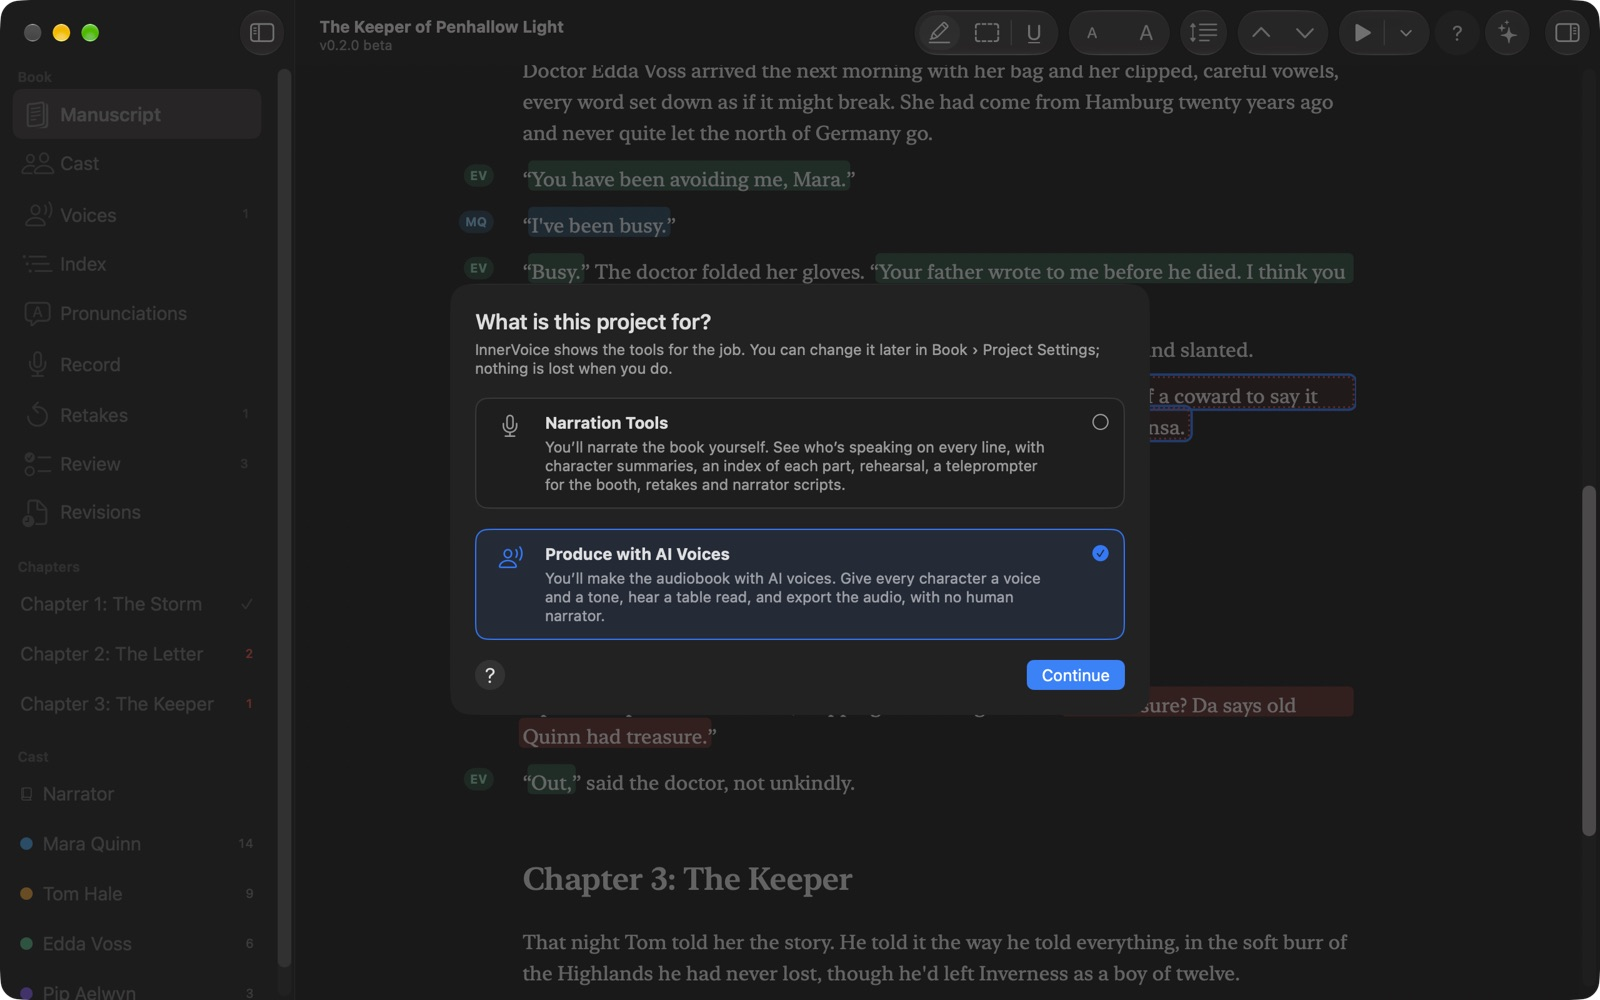
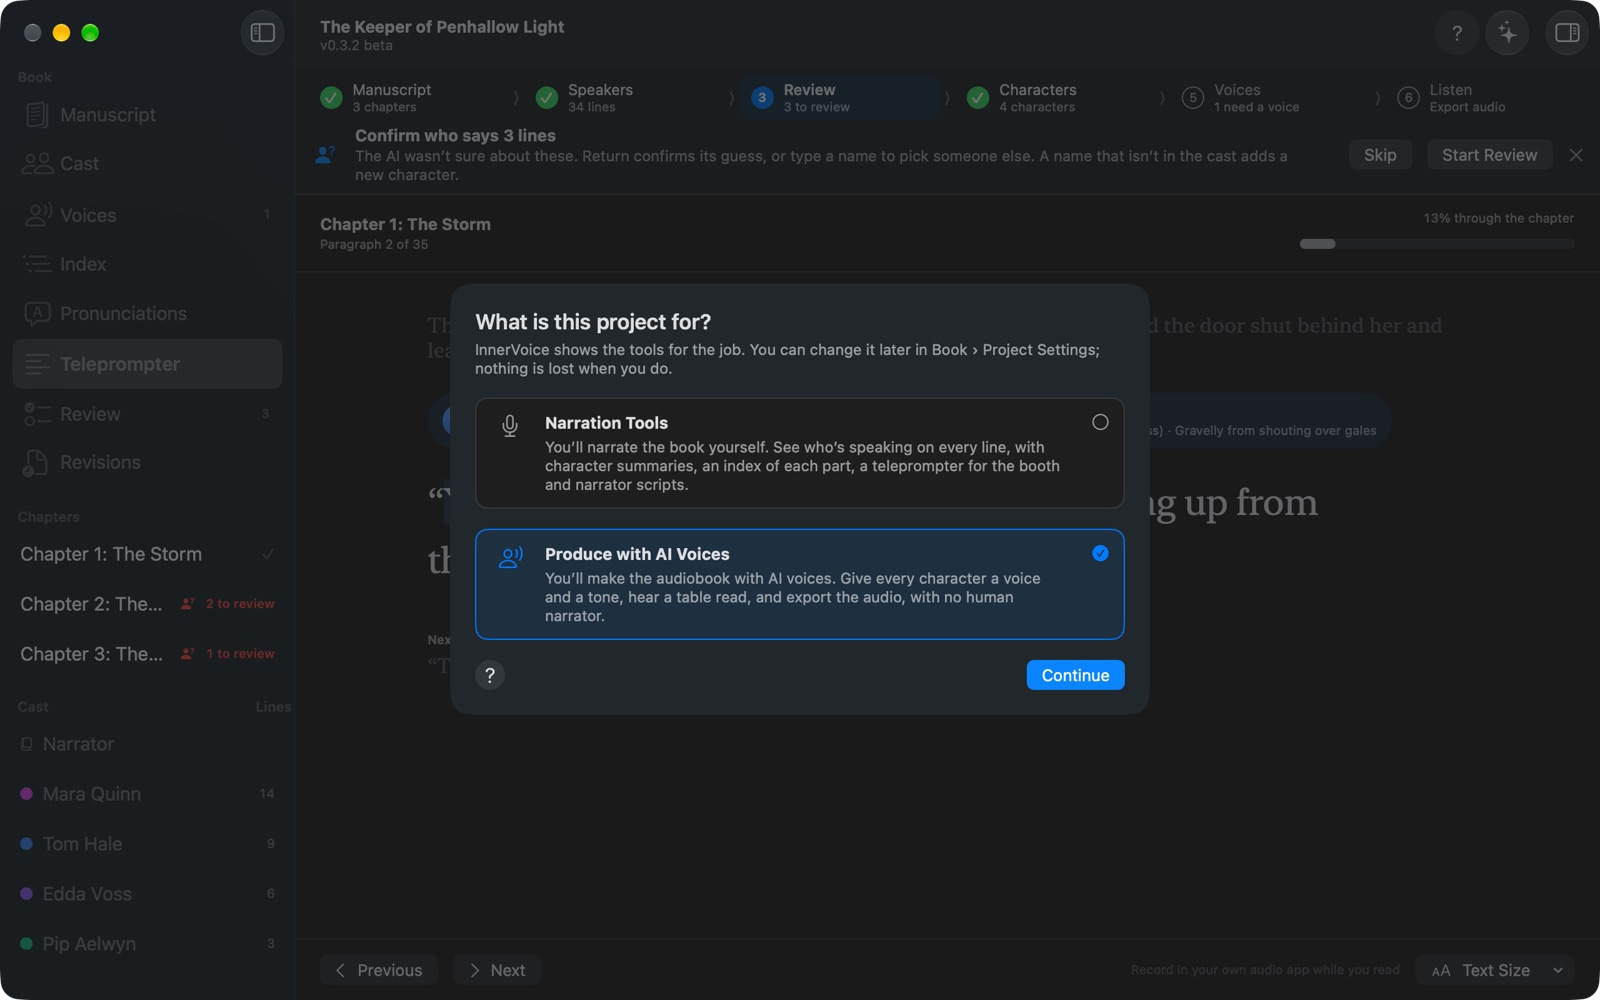
README: Casting Style, shading, Gender to Review, Separate export; new screenshots

diff --git a/README.md b/README.md
@@ -21,6 +21,9 @@ The first time you click Tag Speakers, InnerVoice suggests an AI model for your 
 ## Features
 
 - **Two kinds of project.** When you open a book, choose what it's for. **Narration Tools** is for narrating it yourself: who's speaking, summaries, the index, rehearsal, the booth teleprompter, retakes and narrator scripts. **Produce with AI Voices** is for making the audiobook with AI voices: a voice and a tone for every character, table reads and audio export, with a guided setup. Each shows only its own tools; switch any time in Book › Project Settings and nothing is lost.
+- **Casting Style: one voice, two, or a full cast.** Every project also asks how its voices are shared, with nothing picked for you and a Hear It sample of the same passage in each style. **One Voice** (called **Just Me** when you narrate it yourself): one voice reads the narration and plays everyone, a little lower for men and higher for women, the way most audiobooks are read. **Narrator + Two Voices** (**Three Narrators**): a narrator, one voice for every man and one for every woman, plus an Other group for anyone else. **Full Cast**: every main character gets a voice of their own. Change it any time on the Voices page or the Cast page; no voice or narrator is lost.
+- **Shading, worked out for you.** When one voice plays a character, InnerVoice works out a shade from their gender, age and voice brief, Subtle, Clear or Strong. With Qwen3-TTS it shifts the narrator's own voice, so a shaded character still sounds like the same narrator. Hear each shade on the Voices page or set the pitch and pace yourself. If you narrate it, the cues are yours to follow: arrows in the manuscript margin (↓ lower, ↑ higher), a Shade cue on the Teleprompter and in Narrator Scripts. Set Your Voice and characters of your own gender aren't shaded.
+- **You choose who's main and who's who.** InnerVoice suggests main characters (the most lines) and you mark them; right-click any character for Read By, Main Character and Gender. Characters the book doesn't settle wait in Gender to Review, where 1, 2 and 3 choose Male, Female or Other.
 - **Steps that show the way.** A bar across the top of the window walks you from manuscript to finished book: check the manuscript, Tag Speakers, review the lines the AI wasn't sure of (naming new speakers as you go), let the AI read the book again for how each character sounds, then cast and audition the voices and export, or add pronunciations and record if you narrate it yourself. Each step says how far along it is and has one button for what's next; nothing starts until you click. Skip any step, or hide the bar in the View menu.
 - **Opens the manuscript you were sent.** Word (.docx and .doc), PDF, RTF, plain text, Markdown, OpenDocument, Pages (with a preview saved), EPUB and HTML. PDF page numbers, running headers and hyphenation are cleaned up. For Google Docs, choose File › Download › Microsoft Word first.
 - **Tag Speakers.** Plain rules find every line first ("said Tom", a quote that runs across paragraphs, a two-person back-and-forth, italic thoughts, letters), then the on-device AI decides who speaks the rest. Chapters fill with color while you keep reading; Stop keeps what's done.
@@ -31,7 +34,7 @@ The first time you click Tag Speakers, InnerVoice suggests an AI model for your 
 - **Delete what you won't read.** Select an ISBN, a copyright page or an ad for another book and press Delete, even when it came in as a chapter heading; it leaves the project and every script, and the file you imported stays as it was. Projects save themselves 30 seconds after a change, so you never stop to save.
 - **Character summaries you can check.** Each fact the AI finds links to the paragraph it came from, and facts revealed only after a character first speaks are flagged **Revealed Late**, so you know about that Highland accent before chapter 2, not after chapter 20. Edit any fact, add your own, and keep voice notes.
 - **Voice notes that write themselves.** Build Summaries on the Cast page reads the book for every character, with a bar for the whole cast, a bar for the character being read, and their name. What it learns about how someone sounds (age, accent, voice, manner) goes into their Voice Notes under "From the book", followed by a **voice brief**: pitch, pace, texture, attitude, and how they should sound different from the characters they share scenes with. Your own notes always come first, and anything you edit is yours. Running it again on the whole cast asks first.
-- **Hear every character.** InnerVoice casts a voice for each character from their summary and Voice Notes (gender, age, accent, pitch, pace) and keeps two characters in the same scene from sounding alike. The Voices page plays any voice with the character's own words; speed and pitch fine-tune it. Every line also gets a tone (excited, sad, angry, whispered and five more) from the speech tags and the AI, with unsure ones waiting in Review. Play a line (⌥Space), play a table read from anywhere (⌥⇧Space, with or without narration), or export the book, a chapter or one character's lines as M4A or WAV.
+- **Hear every character.** InnerVoice casts a voice for each character from their summary and Voice Notes (gender, age, accent, pitch, pace) and keeps two characters in the same scene from sounding alike. The Voices page plays any voice with the character's own words; speed and pitch fine-tune it. Every line also gets a tone (excited, sad, angry, whispered and five more) from the speech tags and the AI, with unsure ones waiting in Review. Play a line (⌥Space), play a table read from anywhere (⌥⇧Space, with or without narration), or export the book, a chapter or one character's lines as M4A or WAV, as one file or a file per voice (all the same length, so they line up in an audio editor).
 - **A narrator voice everywhere.** The narrator has a voice of their own on the Voices page, the Cast page, the sidebar and Export Audio, and any character can be "Same as Narrator". Letters and signs are read by the narrator (a setting), thoughts stay in the character's voice, softer, and a first-person book is narrated in the POV character's voice.
 - **Four voice engines.** Apple's voices (including the free Premium ones) work right away. Two AI engines that run on your Mac are a download away in Settings › Voices: **Qwen3-TTS** designs a voice for each character from their summary and Voice Notes, so editing the notes changes the voice, and acts every tone in it; **Orpheus** has eight natural voices and performs the sighs, laughs and gasps in the speech tags. **Mix Engines** casts from all of them at once, for a wider range. Turn off any engine you don't want.
 - **ElevenLabs, if you choose it.** ElevenLabs' cloud voices (eleven_v4) are the one exception to on-device: set it up with your own API key and a clear yes, and each book asks before any of its text is sent. **Design a Voice from Voice Notes** has ElevenLabs design a new voice from a character's description and notes, shown to you before anything is sent. Clone a Voice can also use ElevenLabs (needs a paid ElevenLabs plan). Everything ElevenLabs is labeled Cloud.
@@ -39,7 +42,7 @@ The first time you click Tag Speakers, InnerVoice suggests an AI model for your 
 - **Books in a series.** Use Voices from Another Project brings the voices from an earlier book: InnerVoice lists its characters next to who they are in this book (same name, first name only, or not matched), you confirm or change each match, and the matched characters get the same voices, and their Voice Notes if you like, so the series sounds the same book to book.
 - **Pauses and speed, tuned by ear.** Set the pause between sentences, after a line, between paragraphs, after a chapter title, at a scene break and between chapters, start from Tight, Natural or Relaxed, and try it at 0.75× to 2× on a passage from your own book. Changes apply while it plays, and to Export Audio.
 - **Index.** Every character's lines by chapter, each a link into the book. Main characters start hidden so the index stays short; turn any character on or off.
-- **Multi-narrator productions.** Add narrators, cast characters to them, and export a Narrator Script for each one (PDF or Word) with their lines, cue lines and character summaries.
+- **Multi-narrator productions.** Add narrators, cast characters to them, and export a Narrator Script for each one (PDF or Word) with their lines, cue lines and character summaries. With Three Narrators, Set Up Narrators adds one for the narration, the men and the women, and the Cast page groups the cast by part; for a book read by two people, the men's or women's narrator reads the narration too.
 - **Pronunciations for AI voices.** InnerVoice lists the names, places and invented words it finds. Say how each one sounds and the AI voices say it that way; mark it confirmed with the author.
 - **Teleprompter.** A large-type teleprompter for the booth: one paragraph at a time, the speaker's color and voice cue, the next speaker below. Space or → moves on, ← goes back, and each book opens where you left off. Foot pedals that send keys work too. InnerVoice doesn't record sound: record in your own audio app while you read.
 - **Revised manuscripts.** When the author sends a new draft, import it: tags and notes stay on every paragraph that didn't change, edited lines keep their speakers, and a Revisions list walks you through what's new.
@@ -52,6 +55,14 @@ The first time you click Tag Speakers, InnerVoice suggests an AI model for your 
 
 <table>
 <tr>
+<td width="50%"><img src="docs/images/casting-style.jpg" alt="How will the voices be shared? One Voice, Narrator + Two Voices or Full Cast, each with Hear It"><br><sub><b>Casting Style.</b> One voice, two, or a full cast. Hear each first.</sub></td>
+<td width="50%"><img src="docs/images/casting-shared.jpg" alt="The Voices page with Narrator + Two Voices: the narration, the men's voice, the women's voice and Other, each listing who it reads"><br><sub><b>Narrator + Two Voices.</b> One voice for the men, one for the women.</sub></td>
+</tr>
+<tr>
+<td width="50%"><img src="docs/images/casting-justme.jpg" alt="The manuscript in Just Me: shade arrows next to the initials in the margin show which lines to read lower"><br><sub><b>Just Me.</b> Shade cues in the margin when you play everyone.</sub></td>
+<td width="50%"><img src="docs/images/project-type.jpg" alt="What is this project for? Narration Tools or Produce with AI Voices"><br><sub><b>Project types.</b> Narrate it yourself, or produce it with AI voices.</sub></td>
+</tr>
+<tr>
 <td width="50%"><img src="docs/images/cast.jpg" alt="The Cast page while Build Summaries runs: a bar for the whole cast and one for the character being read, above a card per character"><br><sub><b>Build Summaries.</b> The whole cast, one character at a time.</sub></td>
 <td width="50%"><img src="docs/images/character.jpg" alt="A character page with their voice, best-fitting voices, summary facts linked to their source paragraphs, and Voice Notes"><br><sub><b>Characters.</b> Voice, summary and Voice Notes on one page.</sub></td>
 </tr>
@@ -60,7 +71,7 @@ The first time you click Tag Speakers, InnerVoice suggests an AI model for your 
 <td width="50%"><img src="docs/images/pauses.jpg" alt="Settings, Voices: table read options, pause sliders with presets, playback speed, and the voice engines"><br><sub><b>Pauses.</b> Tune the gaps by ear, at any speed.</sub></td>
 </tr>
 <tr>
-<td width="50%"><img src="docs/images/project-type.jpg" alt="What is this project for? Narration Tools or Produce with AI Voices"><br><sub><b>Project types.</b> Narrate it yourself, or produce it with AI voices.</sub></td>
+<td width="50%"><img src="docs/images/casting-genders.jpg" alt="Gender to Review on the Review page: a character the book does not settle, their lines, and Male, Female and Other buttons"><br><sub><b>Gender to Review.</b> You settle what the book doesn't.</sub></td>
 <td width="50%"><img src="docs/images/stats.jpg" alt="Book Stats: share of lines tagged for you, chapters done, lines that need you, and counts for speakers and narration"><br><sub><b>Book Stats.</b> What's done and what's left.</sub></td>
 </tr>
 <tr>
